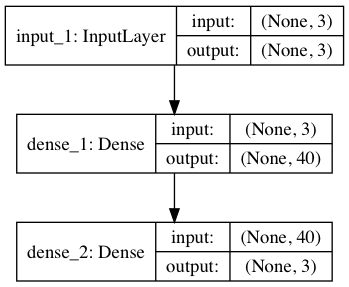
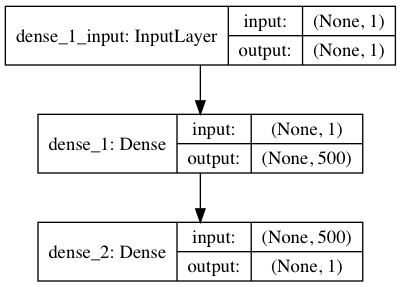
todo:
check

diff --git a/ccnn.py b/ccnn.py
@@ -17,25 +17,32 @@ import time
 start = time.time()
 # setup data
   # import csv data and create an matrix
-dataset = np.loadtxt("gen_dt_100000.csv", delimiter=",")
+dataset = np.loadtxt("gen_dt_10000.csv", delimiter=",")
 print(len(dataset))
 t_index = round(len(dataset)*0.8)
 
 # normalization
 sc = StandardScaler()
-X_data = sc.fit_transform(dataset[:,:3])
-#X_data = dataset[:,:3]
-Y_data = dataset[:,3:]
+X_data = sc.fit_transform(dataset[:,:1])
+#X_data = dataset[:,:1]
+Y_data = dataset[:,4:5]
 
 # split input(X) and output(Y)
 X_train, Y_train = X_data[:t_index,:], Y_data[:t_index,:]
 X_test, Y_test = X_data[t_index:,:], Y_data[t_index:,:]
 
 #create model
-in_layer = Input(shape=(3,)) #number of columns
-hidden_1 = Dense(40, activation='relu', kernel_initializer='normal')(in_layer)
-out_layer = Dense(3, activation='relu')(hidden_1)
-model = Model(inputs=in_layer, outputs=out_layer)
+# using sequential
+model = Sequential()
+model.add(Dense(500, input_dim=1))
+model.add(Dense(1, activation='relu'))
+
+
+# using functional API
+#in_layer = Input(shape=(3,)) #number of columns
+#hidden_1 = Dense(40, activation='relu', kernel_initializer='normal')(in_layer)
+#out_layer = Dense(1, activation='relu')(in_layer)
+#model = Model(inputs=in_layer, outputs=out_layer)
 
 # summarize the model
 model.summary()
@@ -48,17 +55,20 @@ plot_model(model, to_file='model.png', show_shapes=True, show_layer_names=True)
 model.compile(loss='mse', optimizer='adam', metrics=['accuracy'])
 #model.compile(loss='mse', optimizer='rmsprop', metrics=['accuracy'])
 
-
 #fit the model
 hist = model.fit(X_train, Y_train, 
-                epochs=150, batch_size=500,
+                epochs=100, batch_size=500,
                 verbose=1, validation_data=(X_test, Y_test)
                 )
 w = model.get_weights()
+print(w)
+
 # evaluate the model
 scores = model.evaluate(X_test, Y_test)
 print("\n%s: %.2f%%" % (model.metrics_names[1], scores[1]*100))
 
+
+'''
 #save the model
 model.save('model.h5') #creates a hdf5 file
 end = time.time()
@@ -81,7 +91,9 @@ plt.show()
 
 #load model
 #model = load_model('model.h5')
+'''
 
+'''
 # delay, wpm, similarity
 # speed, delay, verbatim
 #predict using the model
@@ -103,7 +115,7 @@ prediction = model.predict(p_input)
 print(prediction)
 for i in prediction:
   print(list(map(lambda x: round(x), i)))
-
+'''
 
 
 '''
@@ -123,7 +135,7 @@ for i in prediction:
 
 ##### multivariate linear regression
 mlm = linear_model.LinearRegression()
-model = mlm.fit(X_train,Y_train)
+stat_model = mlm.fit(X_train, Y_train[:,0])
 predictions = mlm.predict(X_test)
 ## plot the mlm
 plt.scatter(Y_test, predictions)
@@ -131,8 +143,8 @@ plt.xlabel("Real Values")
 plt.ylabel("Predictions")
 plt.show()
 # print the accuracy score
-print("Score:", model.score(X_test, Y_test))
-prediction = model.predict(p_input)
-print(prediction)
-for i in prediction:
-  print(list(map(lambda x: round(x), i)))
+print("Score:", mlm.score(X_test, Y_test[:,0]))
+#prediction = mlm.predict(p_input)
+#print(prediction)
+#for i in prediction:
+#  print(list(map(lambda x: round(x), i)))

diff --git a/reg_test.py b/reg_test.py
@@ -1,0 +1,48 @@
+from keras.models import Sequential
+from keras.layers import Dense, Input, Dropout
+from keras.models import Model
+from keras.callbacks import TensorBoard
+from keras.utils import plot_model
+from keras.models import load_model
+
+from sklearn import preprocessing
+from sklearn import linear_model
+from sklearn.preprocessing import StandardScaler
+
+import numpy as np
+import matplotlib.pyplot as plt
+import time
+
+x_train = np.random.rand(9000)
+y_train = x_train**4+x_train**3-x_train
+x_train = x_train.reshape(len(x_train),1)
+
+x_test = np.linspace(0,1,100)
+y_test = x_test**4+x_test**3-x_test
+x_test = x_test.reshape(len(x_test),1)
+
+
+model = Sequential()
+model.add(Dense(units=20, input_dim=1, activation='relu'))
+model.add(Dense(units=10, activation='relu'))
+model.add(Dense(units=1))
+
+model.compile(loss='mean_squared_error',
+              optimizer='sgd', 
+              metrics=['accuracy']
+              )
+
+hist = model.fit(x_train, y_train, 
+                epochs=40, batch_size=50,
+                verbose=1, 
+                validation_data=(x_test, y_test)
+                )
+
+loss_and_metrics = model.evaluate(x_test, y_test, batch_size=100)
+
+predictions = model.predict(x_test, batch_size=1)
+
+x_test = x_test.reshape(-1)
+plt.plot(x_test, y_test, c='b')
+plt.plot(x_test, predictions, c='r')
+plt.show()

diff --git a/data_gen.py b/data_gen.py
@@ -33,11 +33,11 @@ for i in c:
   if delay <= 100:
     delay_rating = 10
   elif 100 < delay <= 500:
-    delay_rating = randint(8,9)
+    delay_rating = randint(8, 9)
   elif 500 < delay <= 2000:
-    delay_rating = randint(6, 9)
+    delay_rating = randint(4, 7)
   elif 2000 < delay <= 4000:
-    delay_rating = randint(2, 6)
+    delay_rating = randint(2, 4)
   else:
     delay_rating = randint(0, 3)
 

diff --git a/README.md b/README.md
@@ -2,6 +2,43 @@
 
 Weekly Log
 
+Week 9. March 14th
+1. Paraphrasing Factor:
+  a. Check the sentence similarity (cosine similarity)
+  b. if it's 100% then it is a verbatim
+  c. else, then chek whether there are missing words
+    compare two sentences, and find the missing words
+    -> generate number of missing words
+  d. if there are no grammar mistakes,
+    -> then paraphrasing is 1
+    else: 
+      give it a 0
+
+2. make ccnn to have
+  a. number of spelling mistakes
+  b. number of grammar mistakes
+  c. number of missing words
+
+3. generated data -> fit the model
+
+4. Write ASSETS paper:
+  A. lit review from qual report
+  
+  B. data generation
+    a. how did you handle paraphrasing?
+    
+  C. main neural net architecture
+    number of neurons, layers,
+    keras, activation functions
+  
+  D. discussion:
+    performance -> compare with other models
+  
+  E. future work
+
+
+
+
 Week 6-7. March 7th
 Todo:
 1. Generate data that can train the NN to be 'reasonable' and 'rational'
